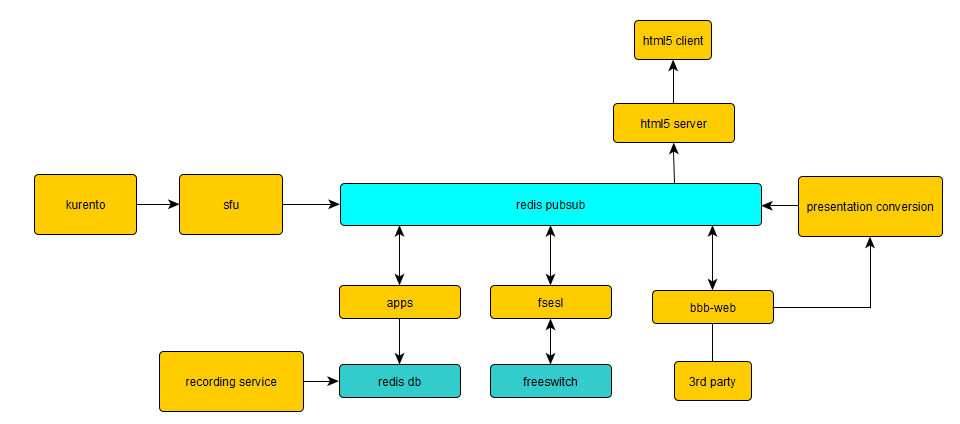
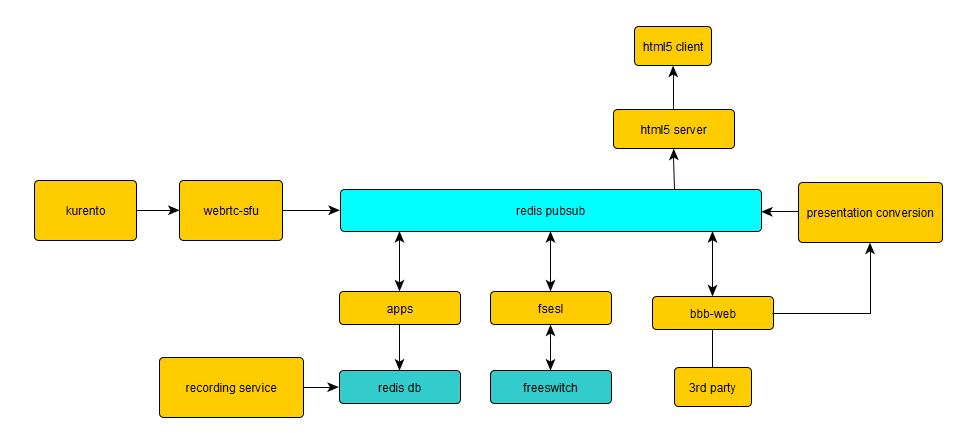
- add more info on KMS

diff --git a/_posts/2015-09-22-architecture.md b/_posts/2015-09-22-architecture.md
@@ -74,9 +74,9 @@ We think FreeSWITCH is an amazing piece of software for handling audio.
 
 FreeSWITCH provides the voice conferencing capability in BigBlueButton. Users are able to join the voice conference through the headset. Users joining through Google Chrome or Mozilla Firefox are able to take advantage of higher quality audio by connecting using WebRTC. FreeSWITCH can also be [integrated with VOIP providers](/install/install.html#add-a-phone-number-to-the-conference-bridge) so that users who are not able to join using the headset will be able to call in using their phone.
 
-## Kurento and SFU
+## Kurento and WebRTC-SFU
 
-Kurento Media Server is reponsible for streaming of webcams and screensharing. The SFU acts as the controller to manage the video streams.
+Kurento Media Server KMS is a media server that implements both SFU and MCU models. KMS is reponsible for streaming of webcams, listen-only audio, and screensharing. The WebRTC-SFU acts as the media controller handling negotiations and to manage the media streams.
 
 ## Joining a Voice Conference
 
